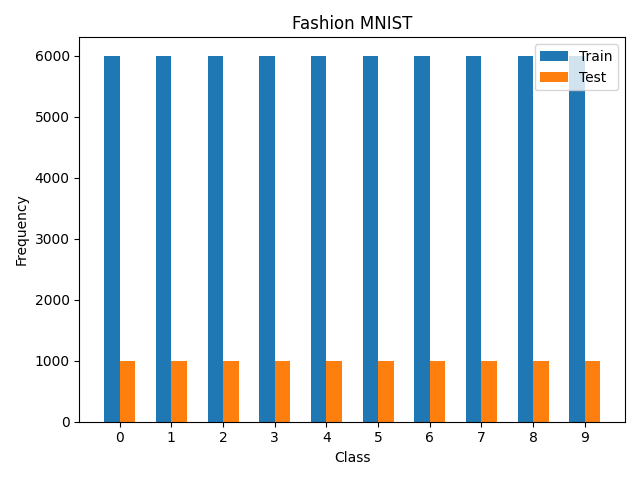
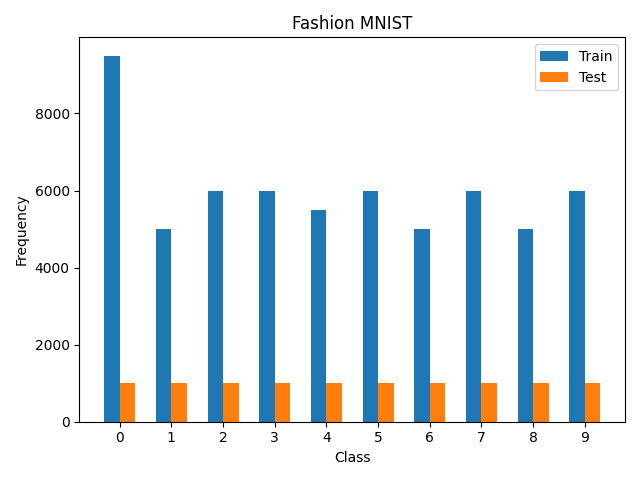
-

diff --git a/unbalanced/main_unbalanced.py b/unbalanced/main_unbalanced.py
@@ -1,6 +1,7 @@
 #!/usr/bin/env python
 # coding: utf-8
 
+from queue import Empty
 import numpy as np
 import matplotlib.pyplot as plt
 import pandas as pd
@@ -254,15 +255,104 @@ print("\nCarregando o dataset: Fashion mnist")
 print("-----------------------------------")
 (xTrain, yTrain), (xTest, yTest) = tf.keras.datasets.fashion_mnist.load_data()
 
+xTrainUnbalanced = np.copy(xTrain)
+yTrainUnbalanced = np.copy(yTrain)
+
+
+# Desbalanceando as classes 1 e 2
 aux = np.empty((6000,28,28))
+ind = np.empty((6000),dtype=int)
+j = 0
 k = 0
 
 for i in range(60000):
     if yTrain[i] == 1:
-        aux[k,:,:] = xTrain[i,:,:]
-        k += 1
+        aux[j,:,:] = xTrain[i,:,:]
+        j += 1
 
-print(aux[:,0,0])
+    if yTrain[i] == 1:
+        ind[k] = i
+        k += 1  
+
+for i in range(1000):
+    yTrainUnbalanced[ind[i]] = 0
+    xTrainUnbalanced[ind[i],:,:] = aux[i,:,:]
+
+# Desbalanceando as classes 3 e 4
+aux[:,:,:] = 0
+ind[:] = 0
+j = 0
+k = 0
+
+for i in range(60000):
+    if yTrain[i] == 3:
+        aux[j,:,:] = xTrain[i,:,:]
+        j += 1
+
+    if yTrain[i] == 4:
+        ind[k] = i
+        k += 1  
+
+for i in range(500):
+    yTrainUnbalanced[ind[i]] = 0
+    xTrainUnbalanced[ind[i],:,:] = aux[i,:,:]
+
+# Desbalanceando as clases 5 e 6
+aux[:,:,:] = 0
+ind[:] = 0
+j = 0
+k = 0
+
+for i in range(60000):
+    if yTrain[i] == 5:
+        aux[j,:,:] = xTrain[i,:,:]
+        j += 1
+
+    if yTrain[i] == 6:
+        ind[k] = i
+        k += 1  
+
+for i in range(1000):
+    yTrainUnbalanced[ind[i]] = 0
+    xTrainUnbalanced[ind[i],:,:] = aux[i,:,:]
+
+# Desbalanceando as clases 7 e 8
+aux[:,:,:] = 0
+ind[:] = 0
+j = 0
+k = 0
+
+for i in range(60000):
+    if yTrain[i] == 7:
+        aux[j,:,:] = xTrain[i,:,:]
+        j += 1
+
+    if yTrain[i] == 8:
+        ind[k] = i
+        k += 1  
+
+for i in range(1000):
+    yTrainUnbalanced[ind[i]] = 0
+    xTrainUnbalanced[ind[i],:,:] = aux[i,:,:]
+
+# Desbalanceando as clases 9 e 10
+aux[:,:,:] = 0
+ind[:] = 0
+j = 0
+k = 0
+
+for i in range(60000):
+    if yTrain[i] == 9:
+        aux[j,:,:] = xTrain[i,:,:]
+        j += 1
+
+    if yTrain[i] == 10:
+        ind[k] = i
+        k += 1  
+
+for i in range(1000):
+    yTrainUnbalanced[ind[i]] = 0
+    xTrainUnbalanced[ind[i],:,:] = aux[i,:,:]
 
 
 # xTrainReduced = np.array([image[::2, 1::2] for image in xTrain])
@@ -286,5 +376,5 @@ sprite = {
         9: 'Ankle boot'
     }
 
-getFrequency(yTrain,yTest,kind='Test')
+getFrequency(yTrainUnbalanced,yTest,kind='Test')
 getImages(xTrain,yTrain)
